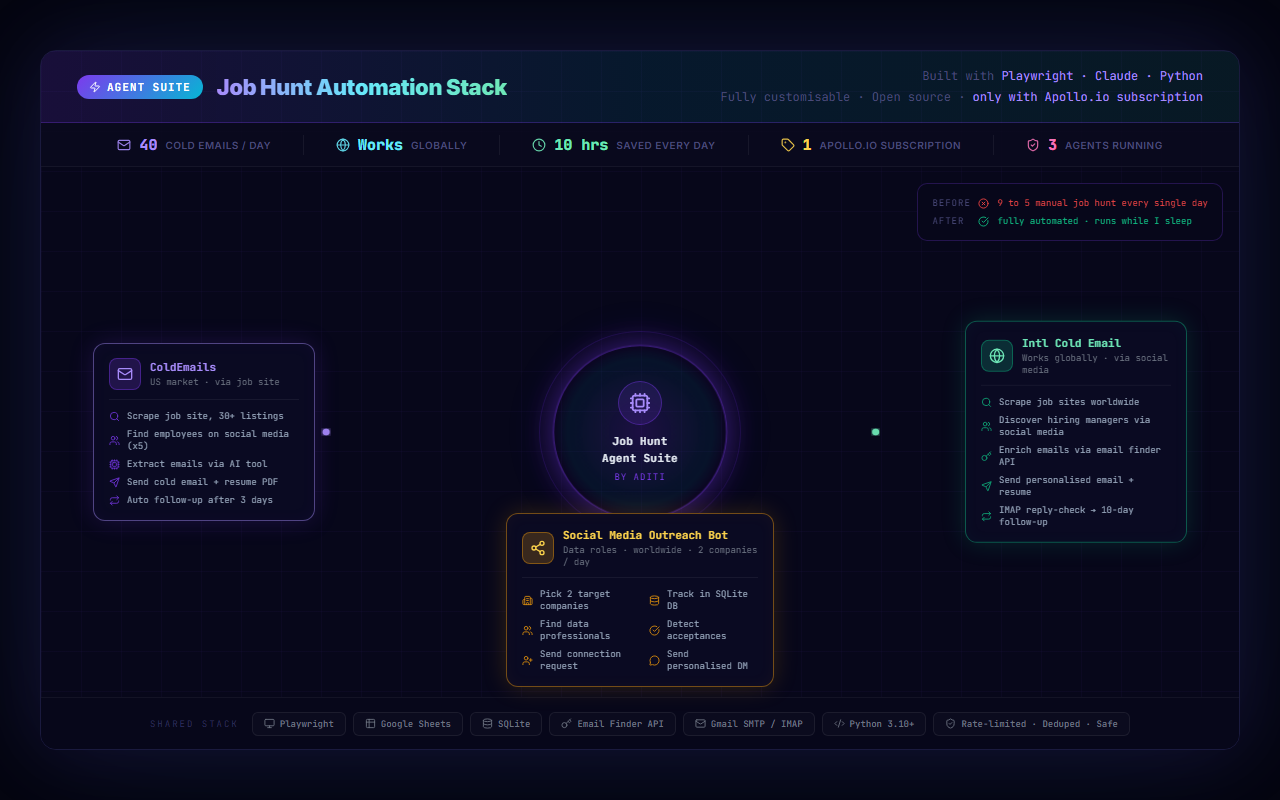
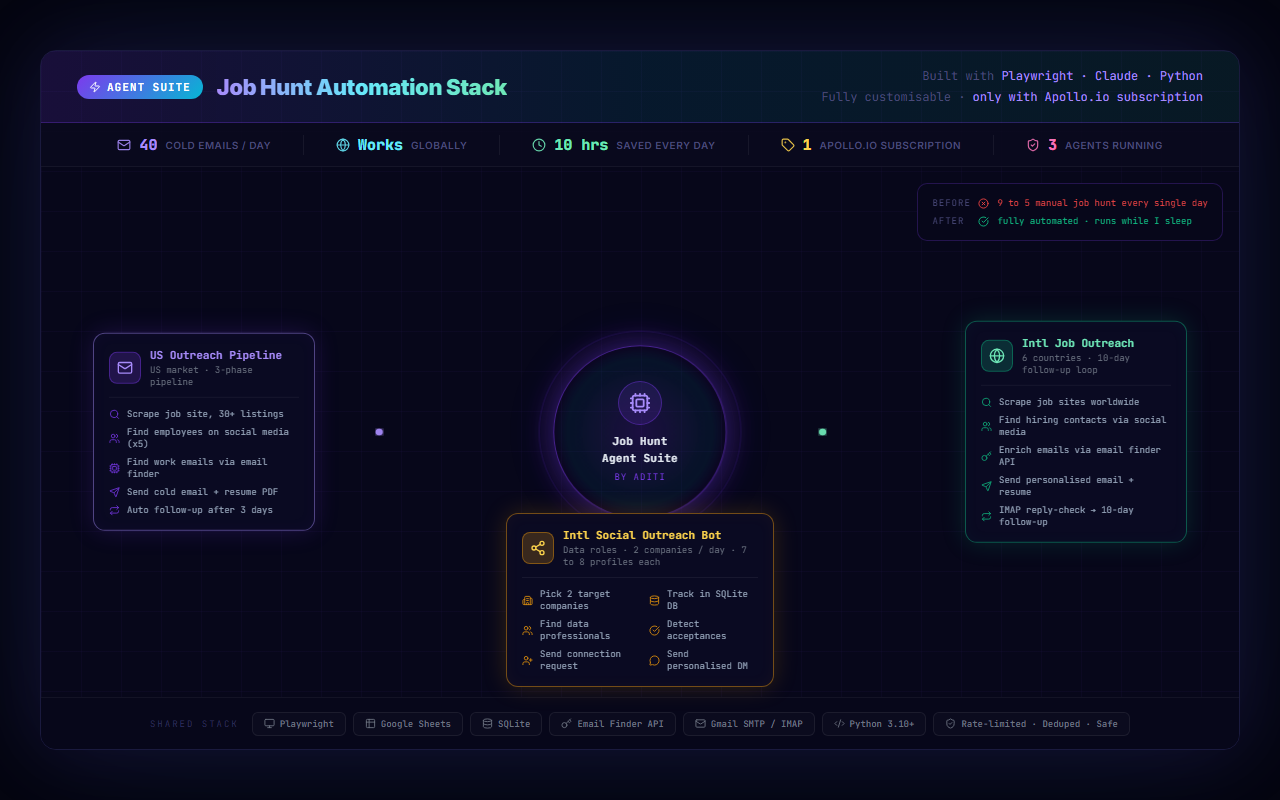
Update README with correct agent names, repo links, and latest diagram

diff --git a/README.md b/README.md
@@ -28,33 +28,39 @@ This is not a product. It is not a startup. It is an engineer solving her own pr
 
 ## The 3 Agents
 
-### Agent 1: Cold Email Bot (US market)
+### Agent 1: US Outreach Pipeline
 
-Targets US-based roles via job sites. Every morning it:
+[github.com/aditi-py/us-job-outreach-pipeline](https://github.com/aditi-py/us-job-outreach-pipeline)
+
+Targets US-based roles via job sites. Runs as a 3-phase pipeline every morning:
 
 - Scrapes 30+ fresh job listings from a job site
-- Finds relevant employees at each company via social media
-- Extracts their contact emails using an AI tool
+- Finds up to 5 relevant employees at each company via social media
+- Finds their work emails via an email finder tool
 - Sends a personalised cold email with my resume attached
 - Automatically follows up after 3 days if there is no reply
 
-### Agent 2: International Cold Email Bot
+### Agent 2: International Job Outreach Pipeline
 
-Same concept, built for global reach. It:
+[github.com/aditi-py/international-job-outreach-pipeline](https://github.com/aditi-py/international-job-outreach-pipeline)
+
+Built for global reach across 6 countries. It:
 
 - Scrapes job listings worldwide from social media and job platforms
-- Discovers hiring managers via social media profiles
+- Finds hiring contacts via social media profiles
 - Enriches contact data using an email finder API
 - Sends personalised outreach with my resume
 - Runs a 10-day follow-up loop over IMAP, checking for replies at each step
 
-### Agent 3: Social Media Outreach Bot
+### Agent 3: International Social Outreach Bot
+
+[github.com/aditi-py/linkedin-international-outreach-bot](https://github.com/aditi-py/linkedin-international-outreach-bot)
 
 Focuses on building connections rather than cold email. It:
 
 - Picks 2 target companies per day
-- Finds data professionals and recruiters at those companies
-- Sends connection requests via social media
+- Finds 7 to 8 data professionals at each company
+- Sends personalised connection requests
 - Tracks everything in a local SQLite database
 - Detects when a connection is accepted
 - Sends a personalised DM immediately after acceptance
@@ -66,9 +72,9 @@ Focuses on building connections rather than cold email. It:
 | Metric | Value |
 |---|---|
 | Cold emails sent per day | ~40 |
-| Markets covered | Global |
+| Countries covered | 6+ |
 | Hours saved per day | ~10 |
-| Extra paid subscriptions | Only Apollo.io |
+| Paid subscriptions needed | Only Apollo.io |
 | Agents running | 3 |
 
 ---
@@ -99,9 +105,9 @@ All agents are rate-limited and deduplicated to stay safe and respectful of plat
 
 ## Code availability
 
-The actual code for these agents is private for now.
+The actual code for each agent lives in the linked repos above.
 
-If you are a recruiter, hiring manager, or fellow engineer who wants to see the implementation, feel free to reach out directly. I am happy to walk through the architecture or share access on request.
+If you are a recruiter, hiring manager, or fellow engineer who wants to talk through the implementation, feel free to reach out directly.
 
 You can find me on [LinkedIn](https://www.linkedin.com/in/aditi-py) or open a GitHub issue here.
 